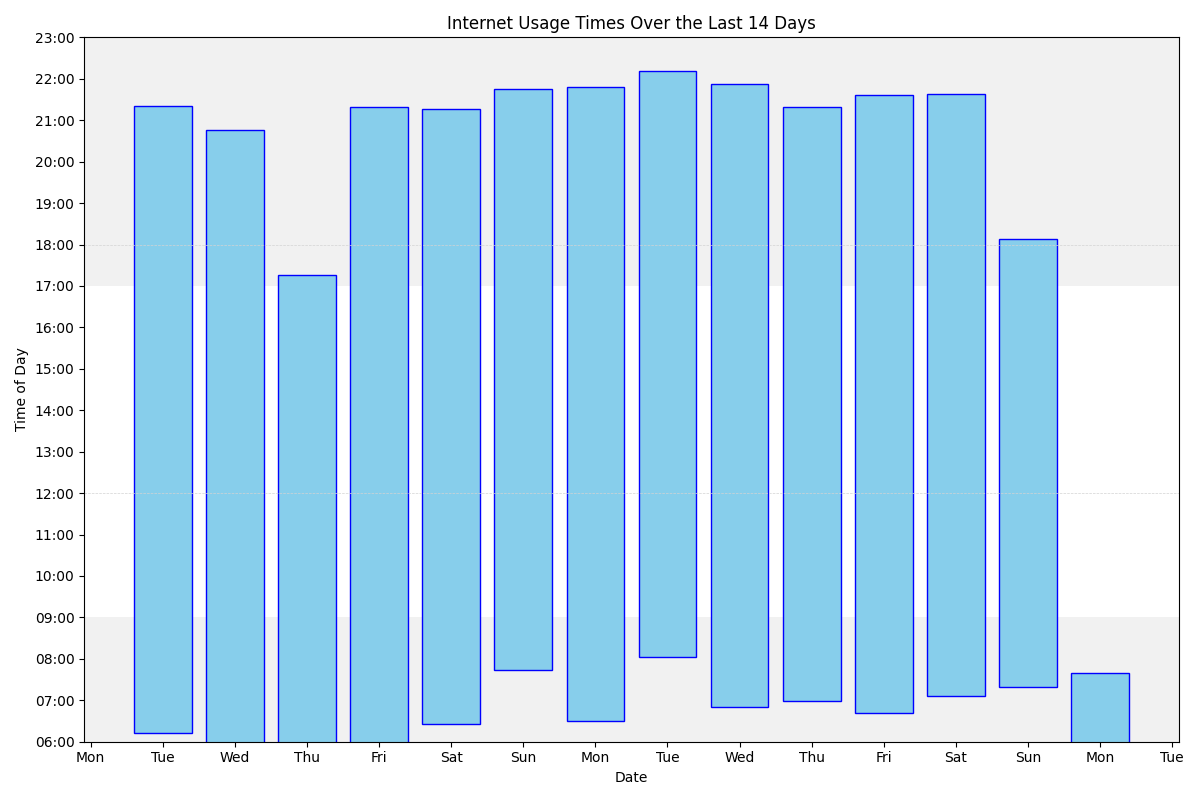
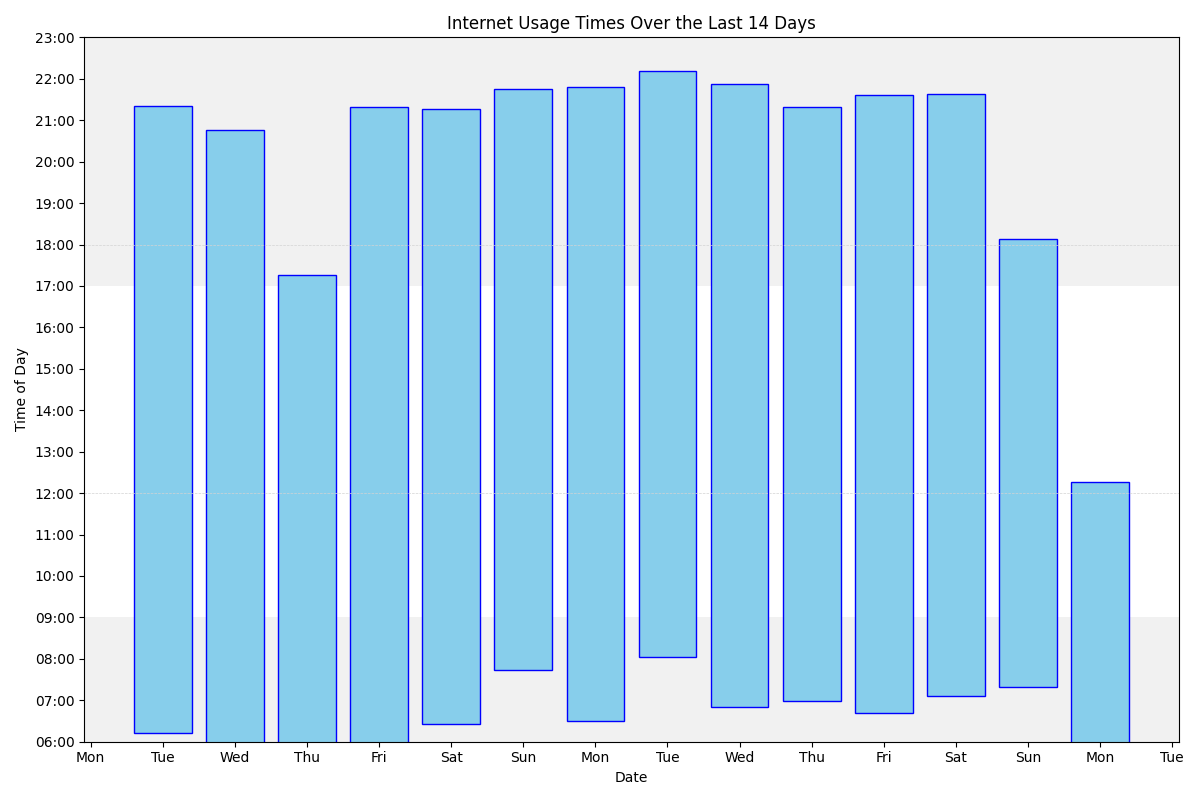
Update

Changed region(s): [[0.8942, 0.5938, 0.9558, 0.8438]]

diff --git a/index.md b/index.md
@@ -68,13 +68,13 @@ ul>li::after {
 <h3> Most common sites</h3>
 With number of accesses/minutes in parentheses
 
-<ol><li>www.google.com (2706)</li>
+<ol><li>www.google.com (2707)</li>
 <li>outlook.office.com (2207)</li>
 <li>mail.google.com (2057)</li>
 <li>docs.google.com (1719)</li>
-<li>bsky.app (1359)</li>
+<li>bsky.app (1361)</li>
 <li>outlook.office365.com (1232)</li>
-<li>www.facebook.com (1115)</li>
+<li>www.facebook.com (1117)</li>
 <li>www.reddit.com (1010)</li>
 <li>duckduckgo.com (754)</li>
 <li>www.amazon.co.uk (639)</li>
@@ -108,7 +108,14 @@ With number of accesses/minutes in parentheses
 
 <br>
 
+<ul><li> 12:15 www.google.com</li>
+</ul>
+
+<br>
+
 <ul><li> 07:40 www.foxnews.com</li>
+<li> 07:40 www.foxbusiness.com</li>
+<li> 07:40 www.foxnews.com</li>
 <li> 07:34 www.theguardian.com</li>
 <li class='same'> 07:30 www.theguardian.com</li>
 </ul>
@@ -116,7 +123,11 @@ With number of accesses/minutes in parentheses
 <br>
 
 <ul><li class='same'> 06:11 www.theguardian.com</li>
-<li> 05:49 www.facebook.com</li>
+<li> 05:55 bsky.app</li>
+<li class='same'> 05:51 bsky.app</li>
+<li> 05:51 www.facebook.com</li>
+<li class='same'> 05:50 www.facebook.com</li>
+<li class='same'> 05:49 www.facebook.com</li>
 <li class='same'> 05:48 www.facebook.com</li>
 <li> 05:47 www.theguardian.com</li>
 <li> 05:46 doc-0k-34-apps-viewer.googleusercontent.com</li>
